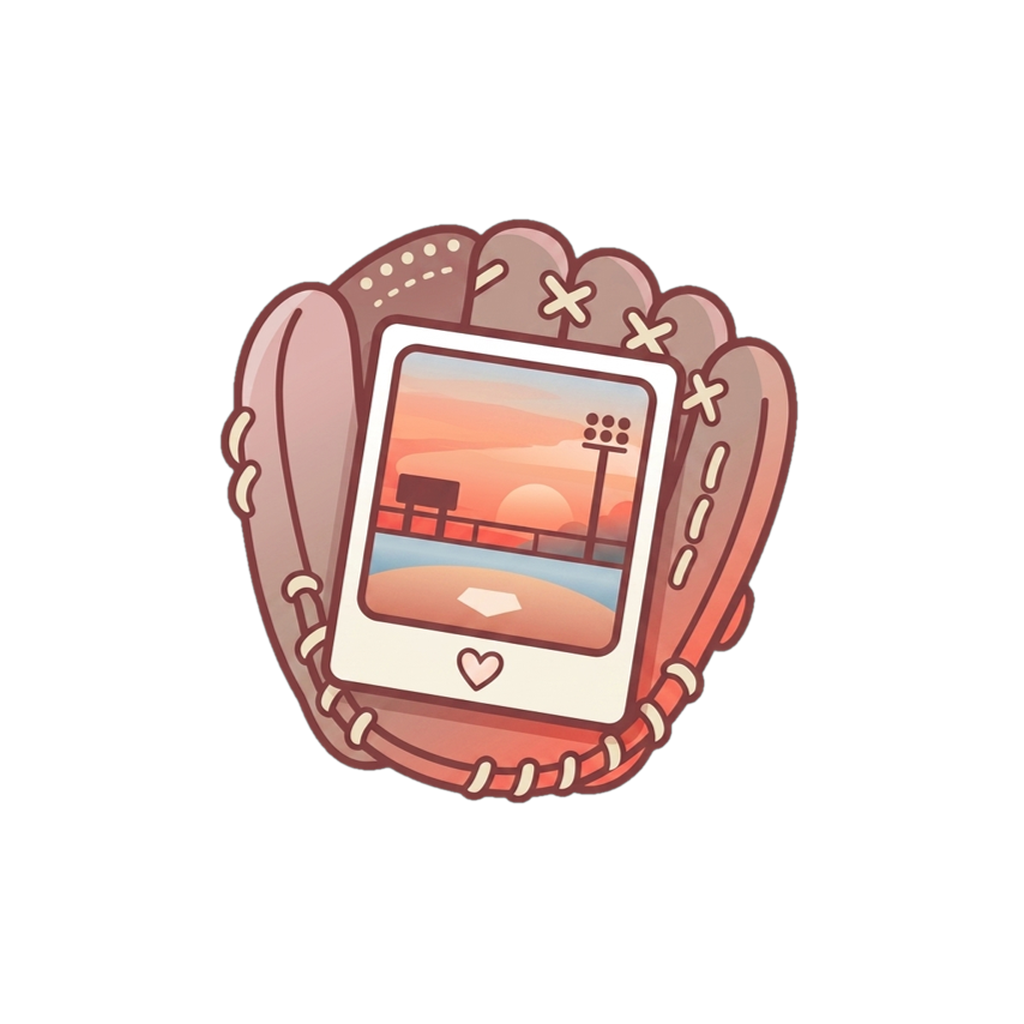
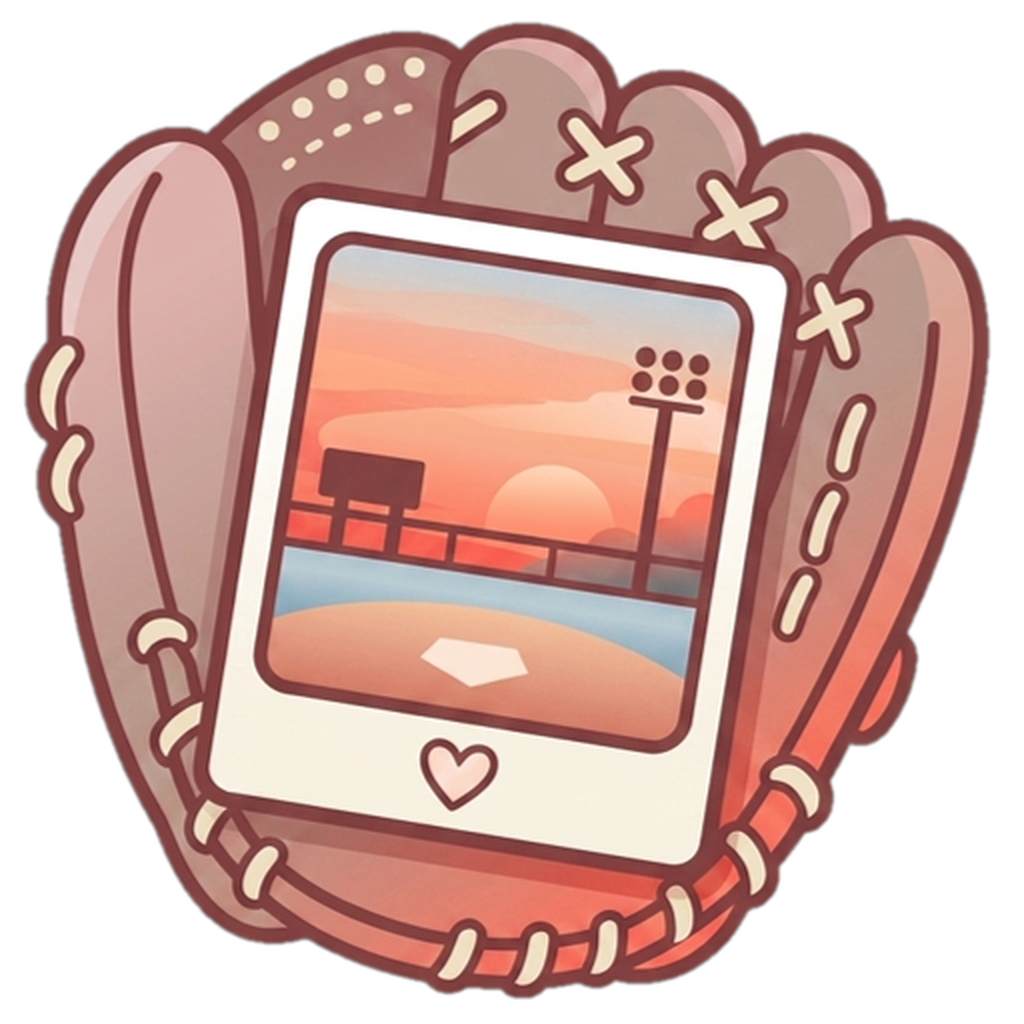
Add exhibition game support for diary entries and game detail page
- Fetch 60 exhibition games from api.fullcount.kr/exhibition-games
- Show exhibition games in diary entry game picker alongside regular games
- Add fallback rendering on game detail page when fetchGameDetail fails
- Suppress standings/preview card for exhibition games
- Add gubun field to ScheduleGame type for game type distinction

diff --git a/mobile/app/game/[id].tsx b/mobile/app/game/[id].tsx
@@ -11,6 +11,7 @@ import { cachedDailyScores, cachedScheduleByMonth } from "@/lib/gameCache";
 import DiaryEntryModal, { type GameOption } from "@/components/DiaryEntryModal";
 import { useTheme, teamPrimaryColor } from "@/lib/ThemeContext";
 import { resolveVenue } from "@/lib/stadiumData";
+import { fetchExhibitionGames } from "@/lib/exhibitionData";
 
 const POSITION_LABELS: Record<string, string> = {
   "1": "1B", "2": "2B", "3": "3B",
@@ -39,6 +40,7 @@ export default function GameDetailScreen() {
   const [loading, setLoading] = useState(true);
   const [error, setError] = useState(false);
   const [scoreFallback, setScoreFallback] = useState<ScoreEntry | null>(null);
+  const [isExhibition, setIsExhibition] = useState(false);
   const [previewData, setPreviewData] = useState<{
     homeRecord: string; awayRecord: string;
     homeRank: number; awayRank: number;
@@ -53,12 +55,62 @@ export default function GameDetailScreen() {
     setLoading(true);
     setError(false);
     setScoreFallback(null);
+    setIsExhibition(false);
     let cancelled = false;
+
+    const tryExhibitionFallback = async () => {
+      if (cancelled) return;
+      try {
+        const exhibitionGames = await fetchExhibitionGames();
+        if (cancelled) return;
+        const eg = exhibitionGames.find((g: any) => g.gameId === gid);
+        if (eg) {
+          setIsExhibition(true);
+          setDetail({
+            gameId: eg.gameId,
+            date: `${eg.date.slice(0, 4)}-${eg.date.slice(4, 6)}-${eg.date.slice(6, 8)}`,
+            homeTeam: eg.homeTeamId,
+            awayTeam: eg.awayTeamId,
+            starters: {
+              home: eg.homeStarter ? { name: eg.homeStarter } : null,
+              away: eg.awayStarter ? { name: eg.awayStarter } : null,
+            },
+            lineup: { home: [], away: [] },
+            gameInfo: {
+              time: eg.time,
+              venue: resolveVenue(eg.homeTeamId, eg.venue),
+              status: eg.cancelled ? "cancelled" : "finished",
+            },
+            score: eg.awayScore != null
+              ? { away: eg.awayScore, home: eg.homeScore ?? 0 }
+              : undefined,
+            pitchingResult: eg.winPitcher || eg.losePitcher
+              ? [
+                  ...(eg.winPitcher ? [{ name: eg.winPitcher, wls: "W" }] : []),
+                  ...(eg.losePitcher ? [{ name: eg.losePitcher, wls: "L" }] : []),
+                ]
+              : undefined,
+          });
+          setLoading(false);
+        } else {
+          setError(true);
+          setLoading(false);
+        }
+      } catch {
+        if (!cancelled) { setError(true); setLoading(false); }
+      }
+    };
 
     fetchGameDetail(gid).then((data) => {
       if (cancelled) return;
       if (data) {
         setDetail(data);
+        fetchExhibitionGames().then((exhibitionGames) => {
+          if (cancelled) return;
+          if (exhibitionGames.some((g: any) => g.gameId === gid)) {
+            setIsExhibition(true);
+          }
+        });
         const dateStr = `${gid.slice(0, 4)}-${gid.slice(4, 6)}-${gid.slice(6, 8)}`;
         cachedDailyScores(dateStr).then((scores) => {
           if (cancelled || !scores?.games) return;
@@ -69,12 +121,14 @@ export default function GameDetailScreen() {
           );
           if (match) setScoreFallback(match);
         });
+        setLoading(false);
       } else {
-        setError(true);
+        tryExhibitionFallback();
       }
-      setLoading(false);
     }).catch(() => {
-      if (!cancelled) { setError(true); setLoading(false); }
+      if (!cancelled) {
+        tryExhibitionFallback();
+      }
     });
 
     return () => { cancelled = true; };
@@ -87,7 +141,7 @@ export default function GameDetailScreen() {
 
   // Fetch standings + recent games for preview card
   useEffect(() => {
-    if (!detail) return;
+    if (!detail || isExhibition) return;
     const homeName = TEAM_COLORS[detail.homeTeam]?.shortName;
     const awayName = TEAM_COLORS[detail.awayTeam]?.shortName;
     if (!homeName || !awayName) return;
@@ -158,7 +212,7 @@ export default function GameDetailScreen() {
     }).catch((e) => console.warn("game/[id] preview fetch failed", e));
 
     return () => { cancelled = true; };
-  }, [detail]);
+  }, [detail, isExhibition]);
 
   const handleOpenDiary = useCallback(() => {
     if (!detail) return;
@@ -649,7 +703,7 @@ export default function GameDetailScreen() {
               </View>
             </View>
           </View>
-        ) : (
+        ) : isExhibition ? null : (
           <View style={[styles.card, styles.noLineupCard]}>
             <Text style={styles.noLineupText}>아직 라인업이 공개되지 않았어요</Text>
             <Text style={styles.noLineupSub}>경기 시작 전에 확정 후 업데이트돼요</Text>

diff --git a/mobile/lib/exhibitionData.ts b/mobile/lib/exhibitionData.ts
@@ -1,0 +1,43 @@
+import { TEAM_NAME_TO_ID } from "@shared/constants";
+import { resolveVenue } from "./stadiumData";
+
+export interface ExhibitionGame {
+  date: string;
+  venue: string;
+  away: string;
+  home: string;
+  time: string;
+  awayScore: number | null;
+  homeScore: number | null;
+  gameId: string;
+  awayTeamId: string;
+  homeTeamId: string;
+  awayStarter: string | null;
+  homeStarter: string | null;
+  winPitcher: string | null;
+  losePitcher: string | null;
+  cancelled: boolean;
+}
+
+interface ExhibitionResponse {
+  year: number;
+  games: ExhibitionGame[];
+}
+
+let cached: ExhibitionGame[] | null = null;
+
+export async function fetchExhibitionGames(): Promise<ExhibitionGame[]> {
+  if (cached) return cached;
+  try {
+    const resp = await fetch("https://api.fullcount.kr/exhibition-games");
+    const data: ExhibitionResponse = await resp.json();
+    cached = (data.games || []).map((g) => ({
+      ...g,
+      awayTeamId: TEAM_NAME_TO_ID[g.away] || "",
+      homeTeamId: TEAM_NAME_TO_ID[g.home] || "",
+    }));
+  } catch {
+    cached = [];
+  }
+  return cached;
+}

diff --git a/mobile/components/DiaryEntryModal.tsx b/mobile/components/DiaryEntryModal.tsx
@@ -21,6 +21,7 @@ import { savePhoto, resizePhoto, generatePhotoName } from "@/lib/camera";
 import { cachedScheduleByMonth } from "@/lib/gameCache";
 import { fetchDailyScores, type ScheduleGame, type ScoreEntry } from "@/lib/api";
 import { resolveVenue } from "@/lib/stadiumData";
+import { fetchExhibitionGames } from "@/lib/exhibitionData";
 
 const DAYS = ["일", "월", "화", "수", "목", "금", "토"];
 
@@ -209,14 +210,28 @@ export default function DiaryEntryModal({ visible, onClose, onSaved, editRecord,
     try {
       const month = date.getMonth() + 1;
       const apiDate = formatDateForApi(date);
-      const [schedule, scores] = await Promise.all([
+      const [schedule, scores, exhibitionData] = await Promise.all([
         cachedScheduleByMonth(month),
         fetchDailyScores(apiDate),
+        fetchExhibitionGames(),
       ]);
 
       const daySched = (schedule?.games ?? []).filter(
         (g: ScheduleGame) => g.date === apiDate
       );
+
+      // Exhibition games for this date
+      const exhibitionDay = exhibitionData.filter((g) => g.date === apiDate.replace(/-/g, ""));
+      const exhibitionOpts: GameOption[] = exhibitionDay.map((g) => ({
+        gameId: g.gameId,
+        homeTeam: g.homeTeamId,
+        awayTeam: g.awayTeamId,
+        homeScore: g.homeScore,
+        awayScore: g.awayScore,
+        cancelled: g.cancelled,
+        venue: resolveVenue(g.homeTeamId, g.venue),
+        time: g.time || "13:00",
+      }));
 
       const scoreMap = new Map<string, ScoreEntry>();
       for (const s of scores?.games ?? []) {
@@ -240,7 +255,8 @@ export default function DiaryEntryModal({ visible, onClose, onSaved, editRecord,
       });
 
       // Sort: my team's game first
-      const sorted = [...gameOpts].sort((a, b) => {
+      const combined = [...gameOpts, ...exhibitionOpts];
+      const sorted = [...combined].sort((a, b) => {
         const aMy = userTeam && (a.homeTeam === userTeam || a.awayTeam === userTeam);
         const bMy = userTeam && (b.homeTeam === userTeam || b.awayTeam === userTeam);
         if (aMy && !bMy) return -1;

diff --git a/shared/types.ts b/shared/types.ts
@@ -181,6 +181,7 @@ export interface ScheduleGame {
   home: string;
   time?: string;
   status?: string;
+  gubun?: string;  // "정규" | "시범" etc.
 }
 
 // Stadium-specific types (used only in stadiumData.ts)

diff --git a/DEVELOPMENT_LOG.md b/DEVELOPMENT_LOG.md
@@ -748,6 +748,22 @@ git push origin master
 - `expo-image-picker`: `55.0.20` → `~17.0.11` (SDK 54 호환으로 다운그레이드)
 - `react-native-gesture-handler`: `~2.28.0` 설치 (PanResponder와 별도로 사용 가능)
 
+### 사진 선택 시 날짜 필터링
+- DatePhotoPicker 컴포넌트 추가 — 갤러리에서 특정 날짜의 사진만 선택 가능
+- commit: `7bf7fee`
+
+### 경기 카드 이닝 표시
+- 라이브 경기에서 "경기 중" 대신 이닝 정보 표시 (예: "3회말")
+- GameDetail scoreBoard.inn 배열 길이로 이닝 추론 (away.length > home.length → 초, 같으면 → 말)
+- Web + Mobile GameCard 동시 적용
+- commit: `de22328`
+
+### 구장 미저장 버그 수정
+- /game-detail API가 빈 venue 반환 시 TEAM_VENUE 매핑으로 폴백
+- resolveVenue() 유틸을 두 진입 경로(다이어리탭, 경기상세)에서 공유
+- 기록 수정 경로에 stadium 필드 추가
+- commit: `88c2c24`
+
 ### EAS Build
 - 현재 Free plan Android 빌드 크레딧 소진 (6/1 초기화)
 - 로컬 빌드: `npx eas build --platform android --profile preview --local`